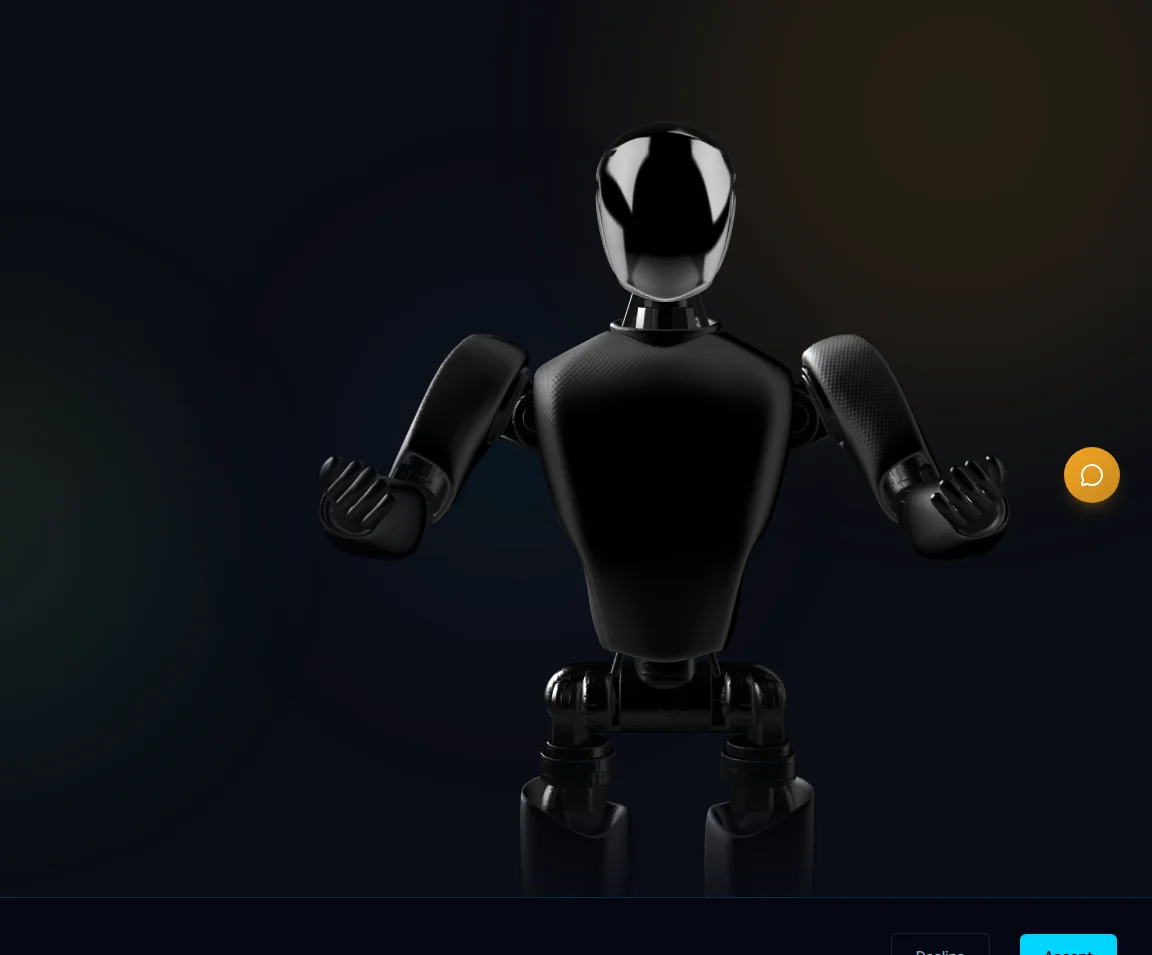
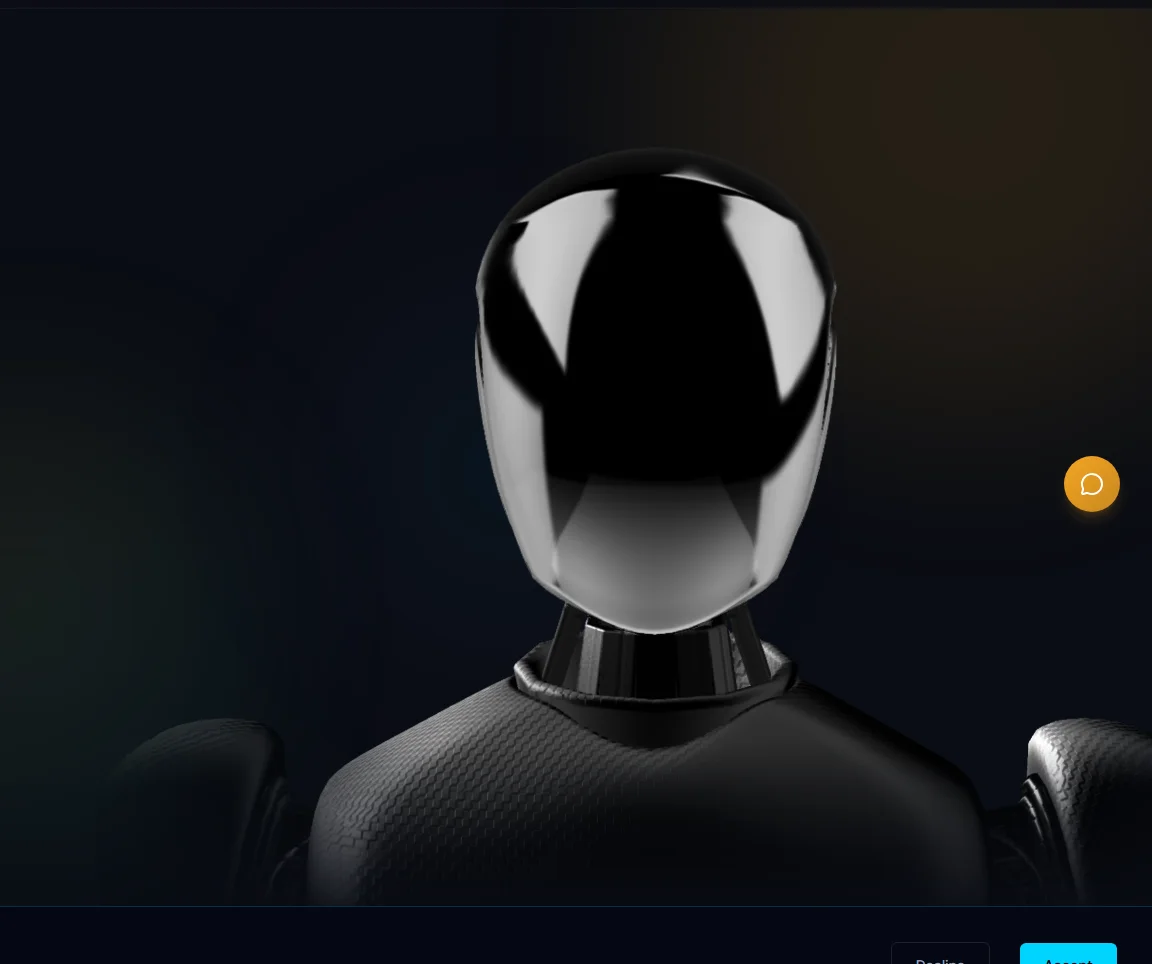
perf: 3-phase Spline loading with matched close-up preview
Phase 1 (0-3s): Static 21KB WebP preview showing robot close-up
  (matches exact Spline resting camera position)
Phase 2 (3-6s): Spline mounts behind preview, shader compilation
  happens invisible to user, blobs paused
Phase 3 (6s+): 1s cross-fade from preview to interactive 3D,
  blobs resume

Uses next/dynamic with ssr:false instead of React.lazy.
3s hard delay ensures page is fully interactive before
638KB Spline runtime hits the main thread.

diff --git a/fmai-nextjs/src/components/ui/splite.tsx b/fmai-nextjs/src/components/ui/splite.tsx
@@ -1,9 +1,15 @@
 'use client'
 
-import { Suspense, lazy, useState, useCallback, useEffect } from 'react'
+import { useState, useCallback, useEffect, useRef } from 'react'
+import dynamic from 'next/dynamic'
 import Image from 'next/image'
 
-const Spline = lazy(() => import('@splinetool/react-spline'))
+// Dynamic import with SSR disabled — prevents server-side WebGL errors
+// and splits the 638KB Spline runtime into a separate chunk
+const Spline = dynamic(() => import('@splinetool/react-spline'), {
+  ssr: false,
+  loading: () => null,
+})
 
 interface SplineSceneProps {
   scene: string
@@ -13,54 +19,62 @@ interface SplineSceneProps {
 }
 
 /**
- * SplineScene — smooth-loading 3D scene with instant static preview.
+ * SplineScene — progressive 3D loading with zero perceived jank.
  *
- * Strategy:
- * 1. Show static WebP screenshot instantly (13KB, zero delay)
- * 2. Defer Spline mount until browser is idle (requestIdleCallback)
- * 3. Pause blur-blob CSS animations during WebGL shader compilation
- * 4. Cross-fade from static image to interactive 3D (0.8s ease-out)
- * 5. Resume blob animations after scene is stable
+ * The Spline runtime (638KB) blocks the main thread for ~1.6s during
+ * shader compilation. We can't prevent this, but we can HIDE it:
+ *
+ * 1. Show static WebP preview instantly (17KB, priority image)
+ * 2. Wait 3s for page to be fully interactive (text, animations, nav)
+ * 3. Mount Spline behind the preview (invisible, opacity: 0)
+ * 4. Main thread blocks for ~1.6s BUT user sees the static preview
+ * 5. After onLoad, cross-fade from preview to interactive 3D
+ * 6. Resume blob animations
+ *
+ * The user never notices the block because the preview covers it.
  */
 export function SplineScene({ scene, className, previewSrc }: SplineSceneProps) {
-  const [shouldMount, setShouldMount] = useState(false)
-  const [loaded, setLoaded] = useState(false)
+  const [phase, setPhase] = useState<'preview' | 'loading' | 'ready'>('preview')
+  const mountedRef = useRef(false)
 
   const onLoad = useCallback(() => {
-    // Let GPU render a few frames before revealing
+    // GPU needs a few frames to stabilize after shader compilation
     requestAnimationFrame(() => {
       requestAnimationFrame(() => {
-        setLoaded(true)
-        // Resume blob animations
-        document.documentElement.classList.remove('spline-loading')
+        requestAnimationFrame(() => {
+          setPhase('ready')
+          document.documentElement.classList.remove('spline-loading')
+        })
       })
     })
   }, [])
 
   useEffect(() => {
-    // Pause heavy blur-blobs while WebGL initializes
+    // Pause blur-blobs during the entire loading process
     document.documentElement.classList.add('spline-loading')
 
-    // Defer Spline mount until browser is idle
-    if ('requestIdleCallback' in window) {
-      const id = requestIdleCallback(() => setShouldMount(true), { timeout: 2500 })
-      return () => cancelIdleCallback(id)
-    } else {
-      const t = setTimeout(() => setShouldMount(true), 800)
-      return () => clearTimeout(t)
-    }
+    // Wait 3 seconds for page to be fully rendered and interactive
+    // This ensures hero text animations, navbar, and CSS play first
+    const timer = setTimeout(() => {
+      if (!mountedRef.current) {
+        mountedRef.current = true
+        setPhase('loading')
+      }
+    }, 3000)
+
+    return () => clearTimeout(timer)
   }, [])
 
   return (
     <div className={className} style={{ contain: 'layout paint', position: 'relative' }}>
-      {/* Static preview — visible instantly, fades out when 3D is ready */}
+      {/* Static preview — always rendered, fades out when 3D ready */}
       {previewSrc && (
         <div
           className="absolute inset-0 z-10"
           style={{
-            opacity: loaded ? 0 : 1,
-            transition: 'opacity 0.8s ease-out',
-            pointerEvents: loaded ? 'none' : 'auto',
+            opacity: phase === 'ready' ? 0 : 1,
+            transition: 'opacity 1s ease-out',
+            pointerEvents: phase === 'ready' ? 'none' : 'auto',
           }}
         >
           <Image
@@ -74,19 +88,17 @@ export function SplineScene({ scene, className, previewSrc }: SplineSceneProps) 
         </div>
       )}
 
-      {/* Interactive 3D — loads behind the preview, fades in when ready */}
-      {shouldMount && (
-        <Suspense fallback={null}>
-          <div
-            className="w-full h-full"
-            style={{
-              opacity: loaded ? 1 : 0,
-              transition: 'opacity 0.8s ease-out',
-            }}
-          >
-            <Spline scene={scene} className="w-full h-full" onLoad={onLoad} />
-          </div>
-        </Suspense>
+      {/* Interactive 3D — mounts after 3s delay, hidden until onLoad */}
+      {phase !== 'preview' && (
+        <div
+          className="w-full h-full absolute inset-0"
+          style={{
+            opacity: phase === 'ready' ? 1 : 0,
+            transition: 'opacity 1s ease-out',
+          }}
+        >
+          <Spline scene={scene} className="w-full h-full" onLoad={onLoad} />
+        </div>
       )}
     </div>
   )
